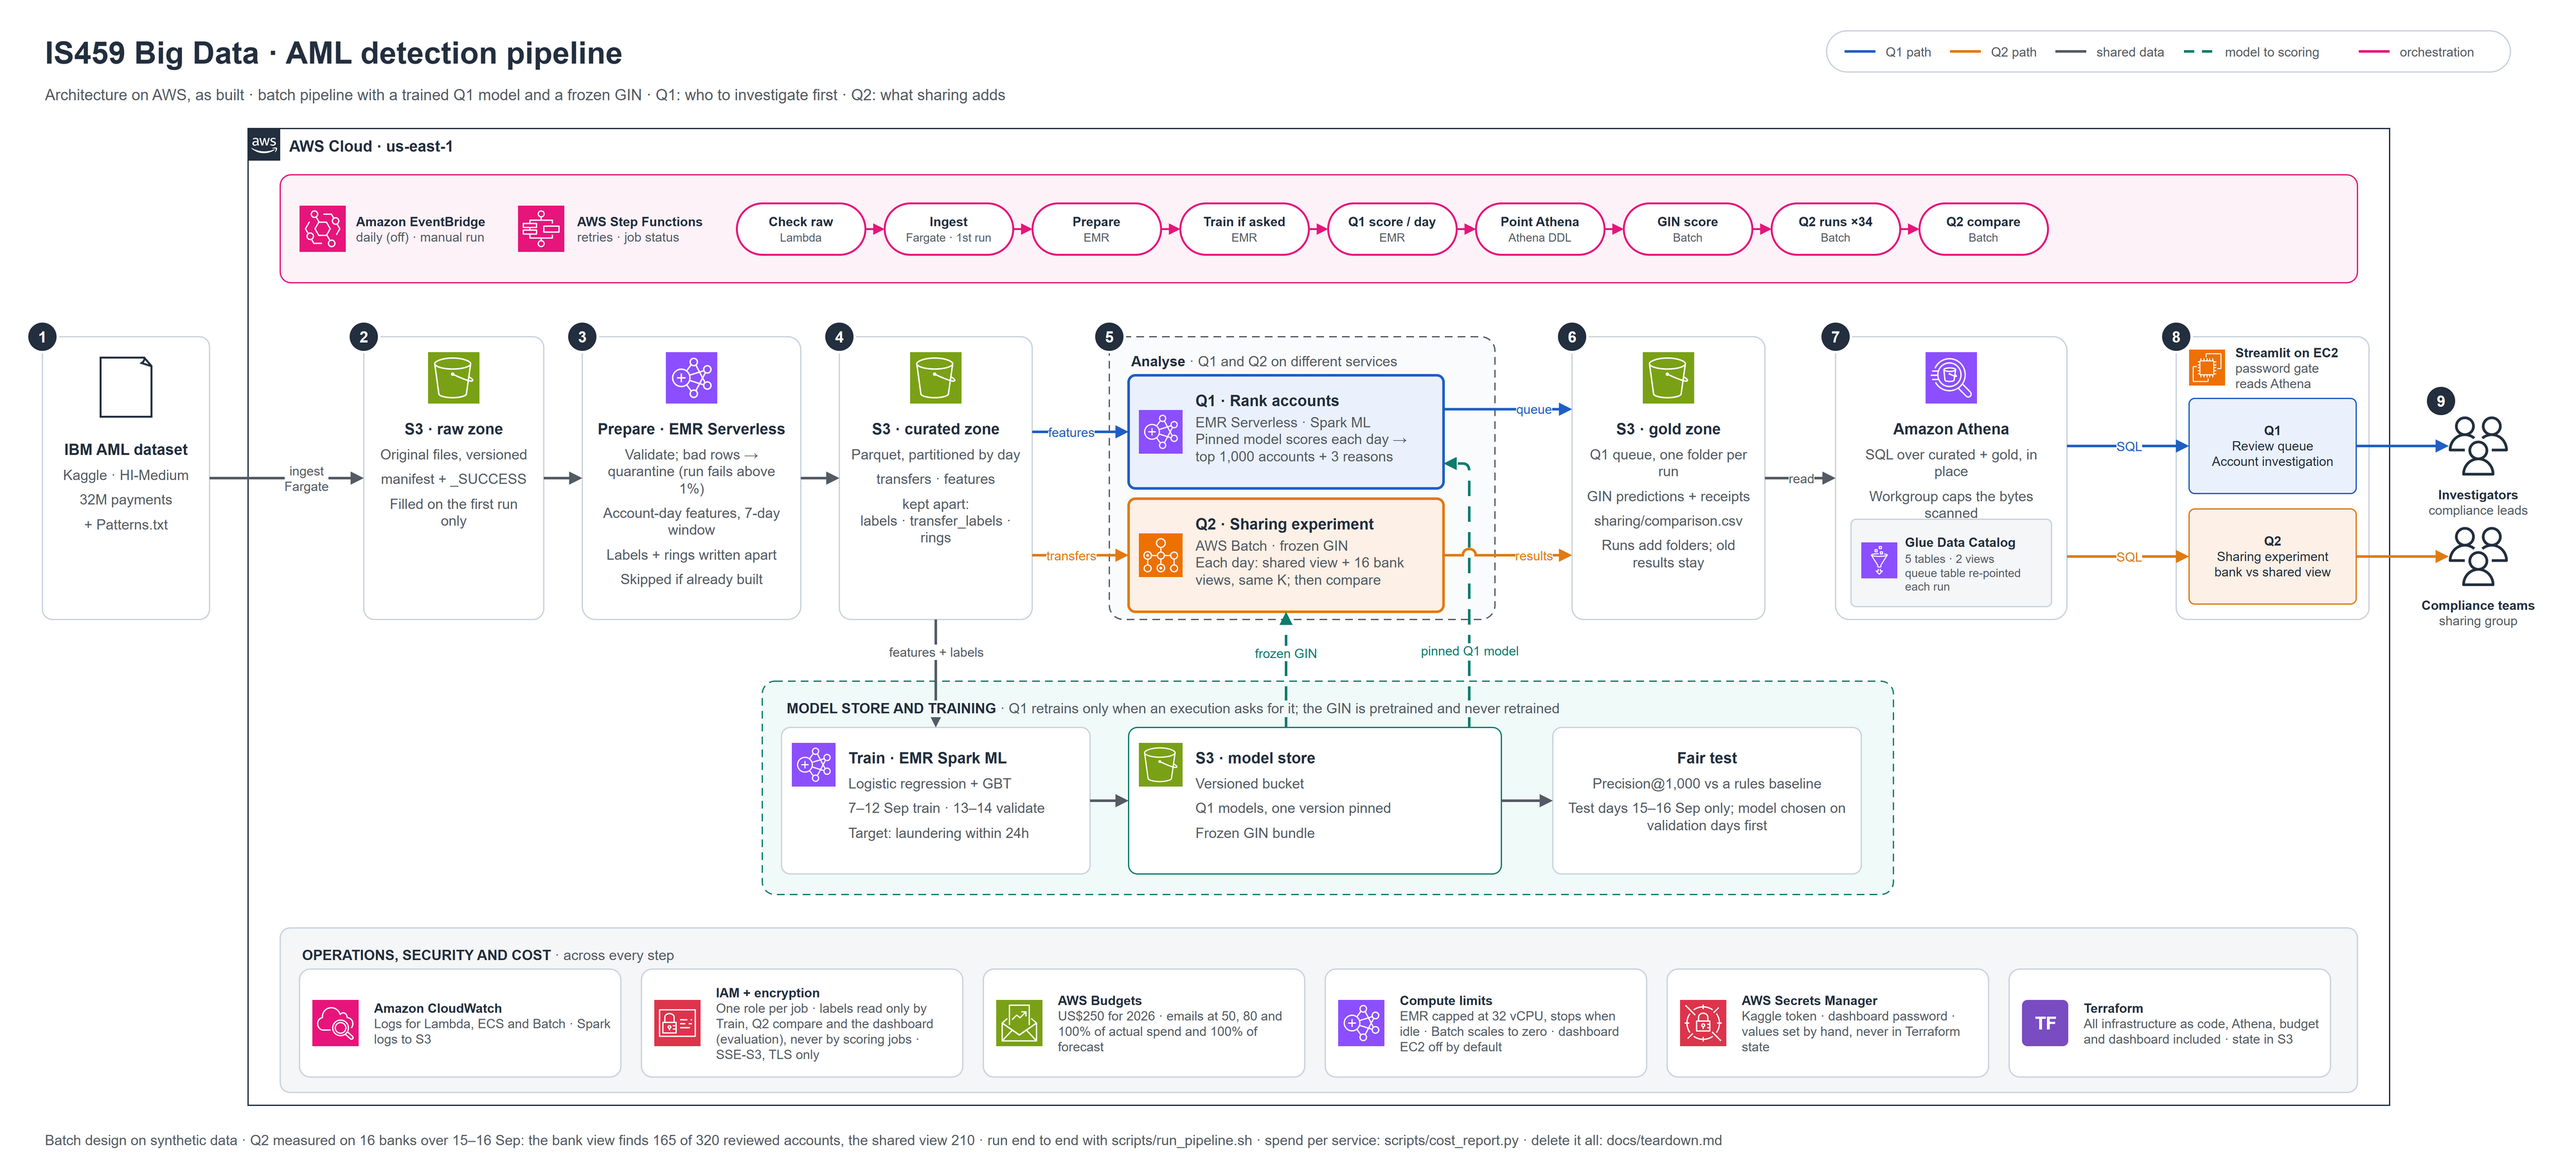
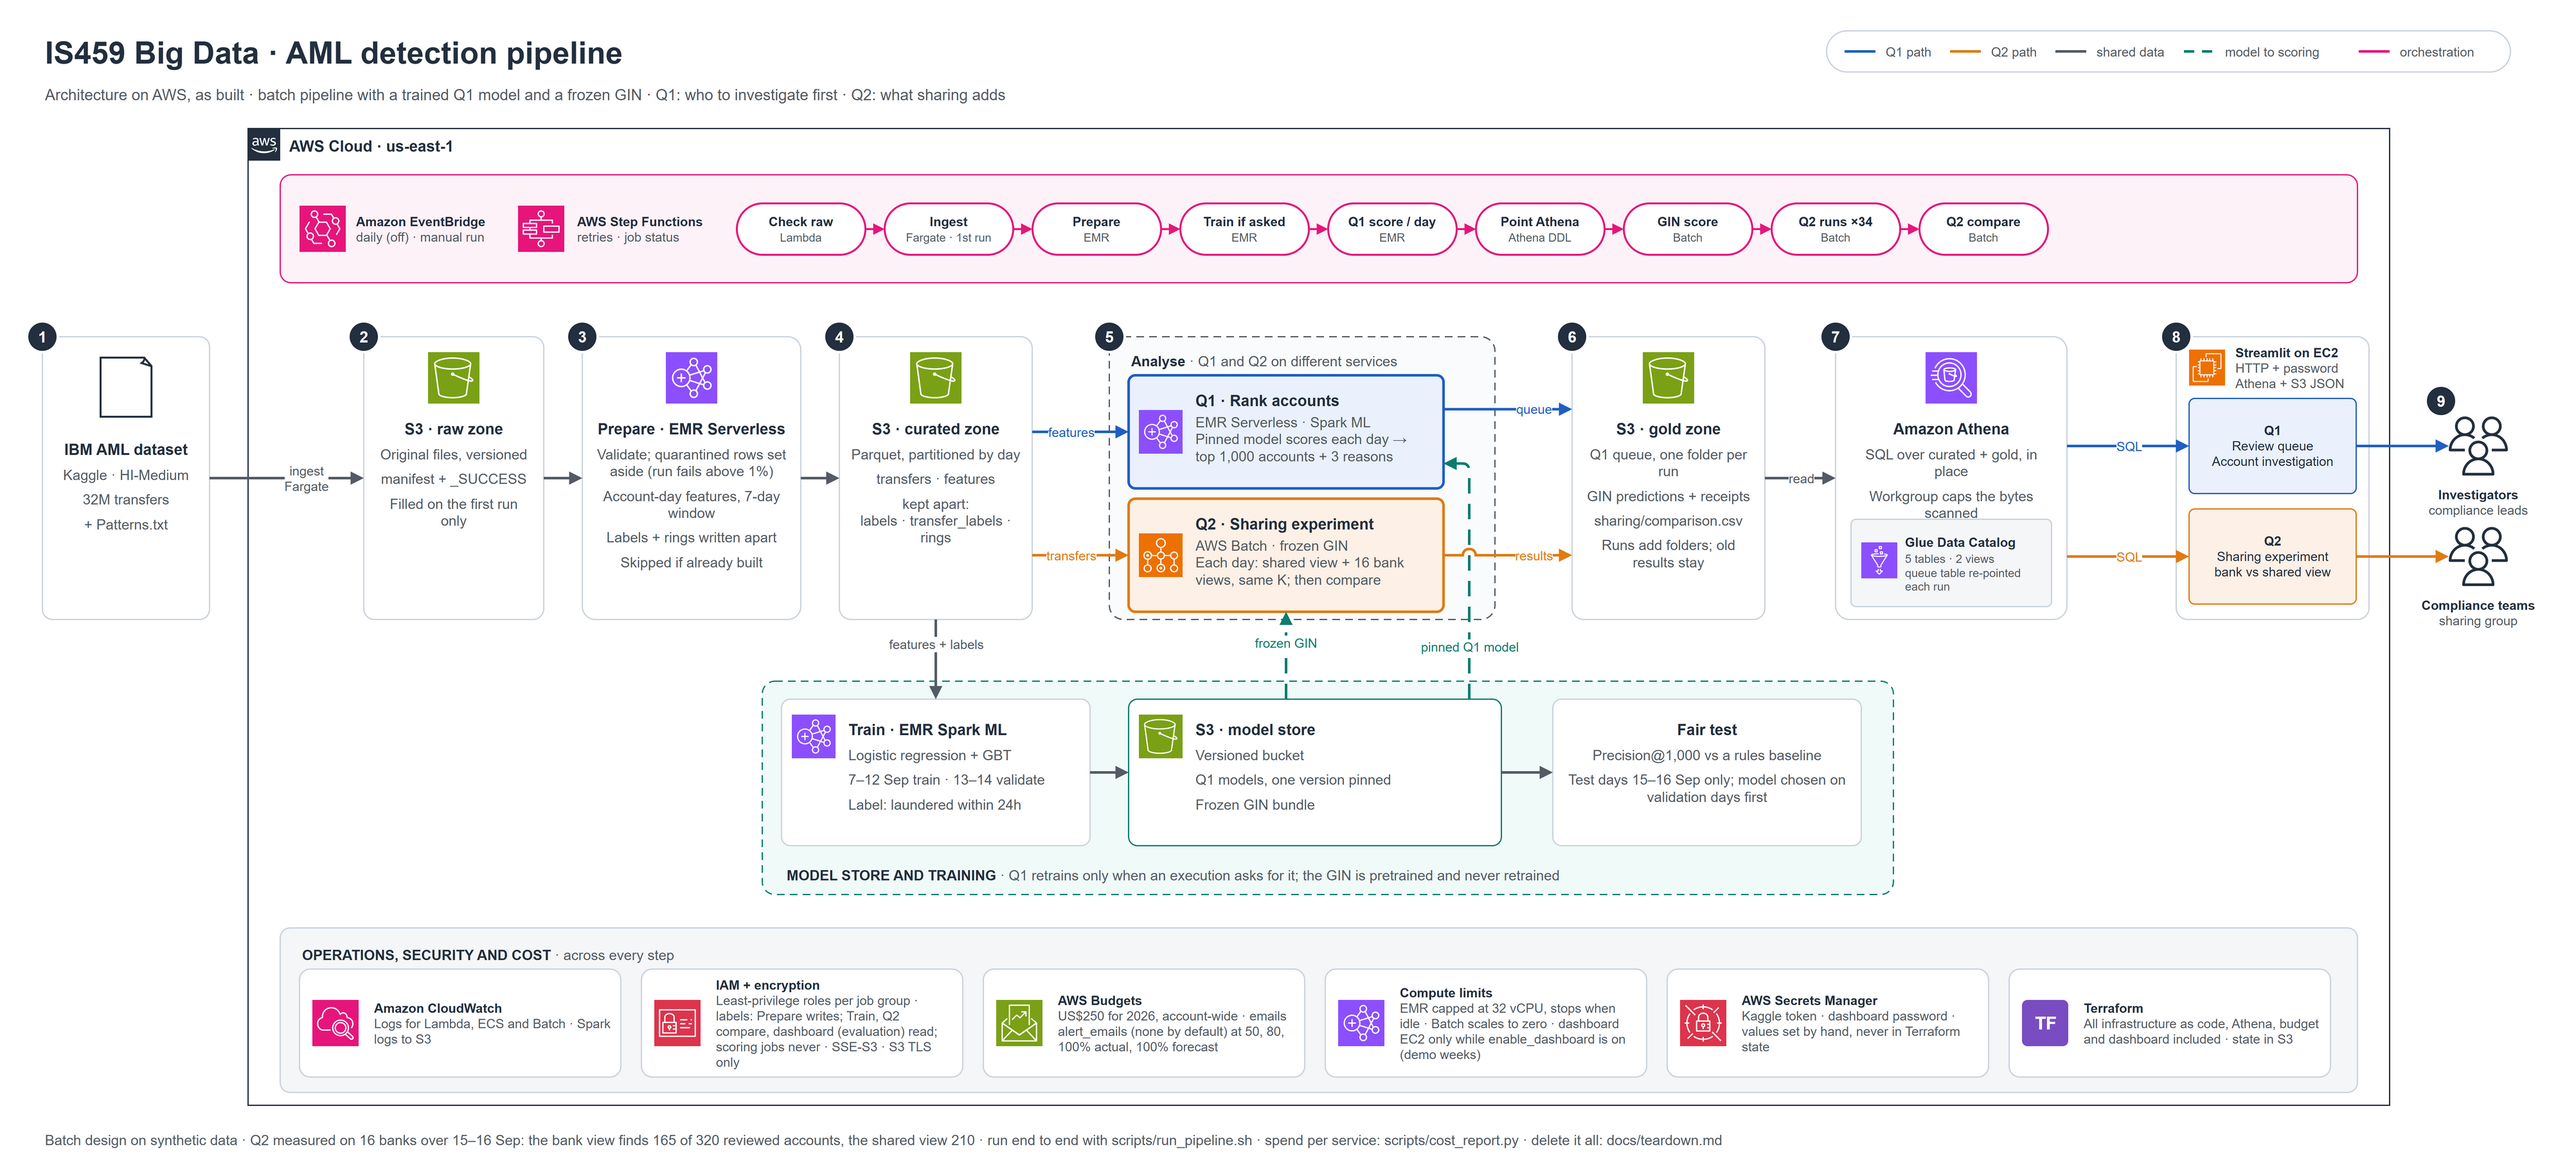
docs: address code review of README and architecture diagram (#30)
- Diagram uses glossary terms (transfers, quarantined rows, Label).
- Who reads labels matches infra/*.tf: Prepare writes them; TrainBQ1,
  BQ2Compare and the dashboard (evaluation) read them; ScoreBQ1, Score and
  BQ2Score never can. Real state names (the GIN state is Score).
- IAM card: least-privilege roles per job group; TLS-only scoped to S3.
- Budget: account-wide, emails alert_emails (none by default).
- Dashboard: runs only while enable_dashboard is on; plain HTTP behind a
  shared password; reads Athena plus small JSON files from S3.
- Model store title moved to the container's bottom so no arrow crosses it.
- README paragraphs rewrapped to ~85 columns; BQ1/BQ2 naming throughout.

diff --git a/README.md b/README.md
@@ -14,10 +14,12 @@ train/                 BQ1: Spark ML on EMR Serverless (train, rules baselines, 
 lambdas/check_raw/     Lambda: has the raw zone already been ingested?
 scoring/               Frozen GIN, used for BQ2: graph preparation, inference, ranking and evaluation
 bq2/                   BQ2: bank view vs shared view comparison and its results (see bq2/runs/README.md)
-dashboard/             Streamlit review dashboard, one page per business question; hosted on
-                       EC2 behind a shared password when enable_dashboard is on
-scripts/               Helper scripts: run_pipeline.sh, cost_report.py (spend per AWS service
-                       from Cost Explorer), teardown.sh (deletes everything at project end)
+dashboard/             Streamlit review dashboard, one page per business question;
+                       hosted on EC2 (plain HTTP, shared password) while
+                       enable_dashboard is on
+scripts/               Helper scripts: run_pipeline.sh, cost_report.py (spend per
+                       AWS service from Cost Explorer), teardown.sh (deletes
+                       everything at project end)
 docs/                  Runbooks, ADRs, teardown.md, architecture/ (the diagram)
 ```
 
@@ -25,7 +27,8 @@ docs/                  Runbooks, ADRs, teardown.md, architecture/ (the diagram)
 
 ![IS459 pipeline architecture on AWS](docs/architecture/is459-pipeline.png)
 
-Source: [docs/architecture/is459-pipeline.drawio](docs/architecture/is459-pipeline.drawio) (open in draw.io; the PNG is page 1).
+Source: [docs/architecture/is459-pipeline.drawio](docs/architecture/is459-pipeline.drawio)
+(open in draw.io; the PNG is page 1).
 
 ```
 EventBridge (daily, off by default) / manual start
@@ -39,7 +42,7 @@ EventBridge (daily, off by default) / manual start
      -> ScoreBQ1 (EMR Serverless)  one job per day in bq1.dates, with the pinned (or just-trained) model
      -> PointQueueTable (Athena)   ALTER TABLE queue_files to this execution's queue, so the
                                    dashboard shows the newest run with no manual step
-     -> GIN Score (optional, Batch) stage graph/model, score, rank, publish gold
+     -> Score (GIN, Batch)         optional: stage graph/model, score, rank, publish gold
      -> BQ2Score (Batch, Map)      only with enable_bq2: each bq2 day scored on the shared graph
                                    and once per bank in bq2_banks (execution ids bq2-shared-<day>,
                                    bq2-bank-<bank>-<day>); a completed identical run is reused
@@ -47,15 +50,22 @@ EventBridge (daily, off by default) / manual start
                                    under its own role (the only Batch role that reads labels)
 
 Alongside the pipeline, not part of an execution:
-  Dashboard (EC2, off by default)  Streamlit behind a shared password, reads Athena
-  AWS Budgets                      US$250 for 2026; emails at 50, 80, 100% actual, 100% forecast
-  scripts/cost_report.py           spend per AWS service from Cost Explorer, for the slides
-  scripts/teardown.sh              deletes every project resource; see docs/teardown.md
+  Dashboard (EC2)                  only while enable_dashboard is on (demo weeks):
+                                   Streamlit, plain HTTP, shared password; reads
+                                   Athena and small JSON files from S3
+  AWS Budgets                      US$250 for 2026, account-wide; emails
+                                   alert_emails (none by default) at 50, 80, 100%
+                                   actual and 100% forecast
+  scripts/cost_report.py           spend per AWS service (Cost Explorer), for slides
+  scripts/teardown.sh              deletes every project resource; docs/teardown.md
 ```
 
-Who reads labels: the training job (TrainBQ1) and the Q2 compare job (BQ2Compare), and the dashboard for
-evaluation (its Account investigation and Sharing pages show ground truth). The scoring jobs (ScoreBQ1, GIN
-Score, BQ2Score) never do; their roles cannot read `labels/` or `transfer_labels/`.
+Who reads labels: Prepare writes them (`labels/`, `transfer_labels/`, `rings/`),
+and its role can read them back. TrainBQ1 reads `labels/` and BQ2Compare reads
+`transfer_labels/`. The dashboard reads them for evaluation: its Account
+investigation and Sharing pages show ground truth, and its Review queue shows rings.
+The scoring jobs (ScoreBQ1, Score, BQ2Score) never do; their roles cannot read any
+of the three.
 
 The Athena layer (workgroup, Glue database, tables, views) is created by Terraform
 (`infra/athena.tf`); see `dashboard/athena/README.md`.
@@ -69,11 +79,12 @@ task fails partway, a re-run skips files already in S3 and carries on.
 
 Prepare runs on a shared EMR Serverless Spark application (`is459-team6-spark`,
 EMR 7, at most 32 vCPU and 128 GB, auto-stopping after 15 minutes idle), which
-BQ1 training and daily scoring also run on; the GIN and Q2 jobs run on AWS Batch. Terraform uploads `prepare/prepare.py` to
-`s3://<curated>/code/prepare.py`, and the state machine starts it synchronously with
-a 1-hour timeout, retrying only service-level transients: a job that failed on its
-own data would spend another hour reaching the same verdict. Spark driver and
-executor logs land under `s3://<curated>/logs/`.
+BQ1 training and daily scoring also run on; the GIN and BQ2 jobs run on AWS Batch.
+Terraform uploads `prepare/prepare.py` to `s3://<curated>/code/prepare.py`, and the
+state machine starts it synchronously with a 1-hour timeout, retrying only
+service-level transients: a job that failed on its own data would spend another hour
+reaching the same verdict. Spark driver and executor logs land under
+`s3://<curated>/logs/`.
 
 The job runs as `is459-team6-emr-job`, which can read the raw prefix and the job
 code and read and write the curated prefix. It has no write access to the raw
